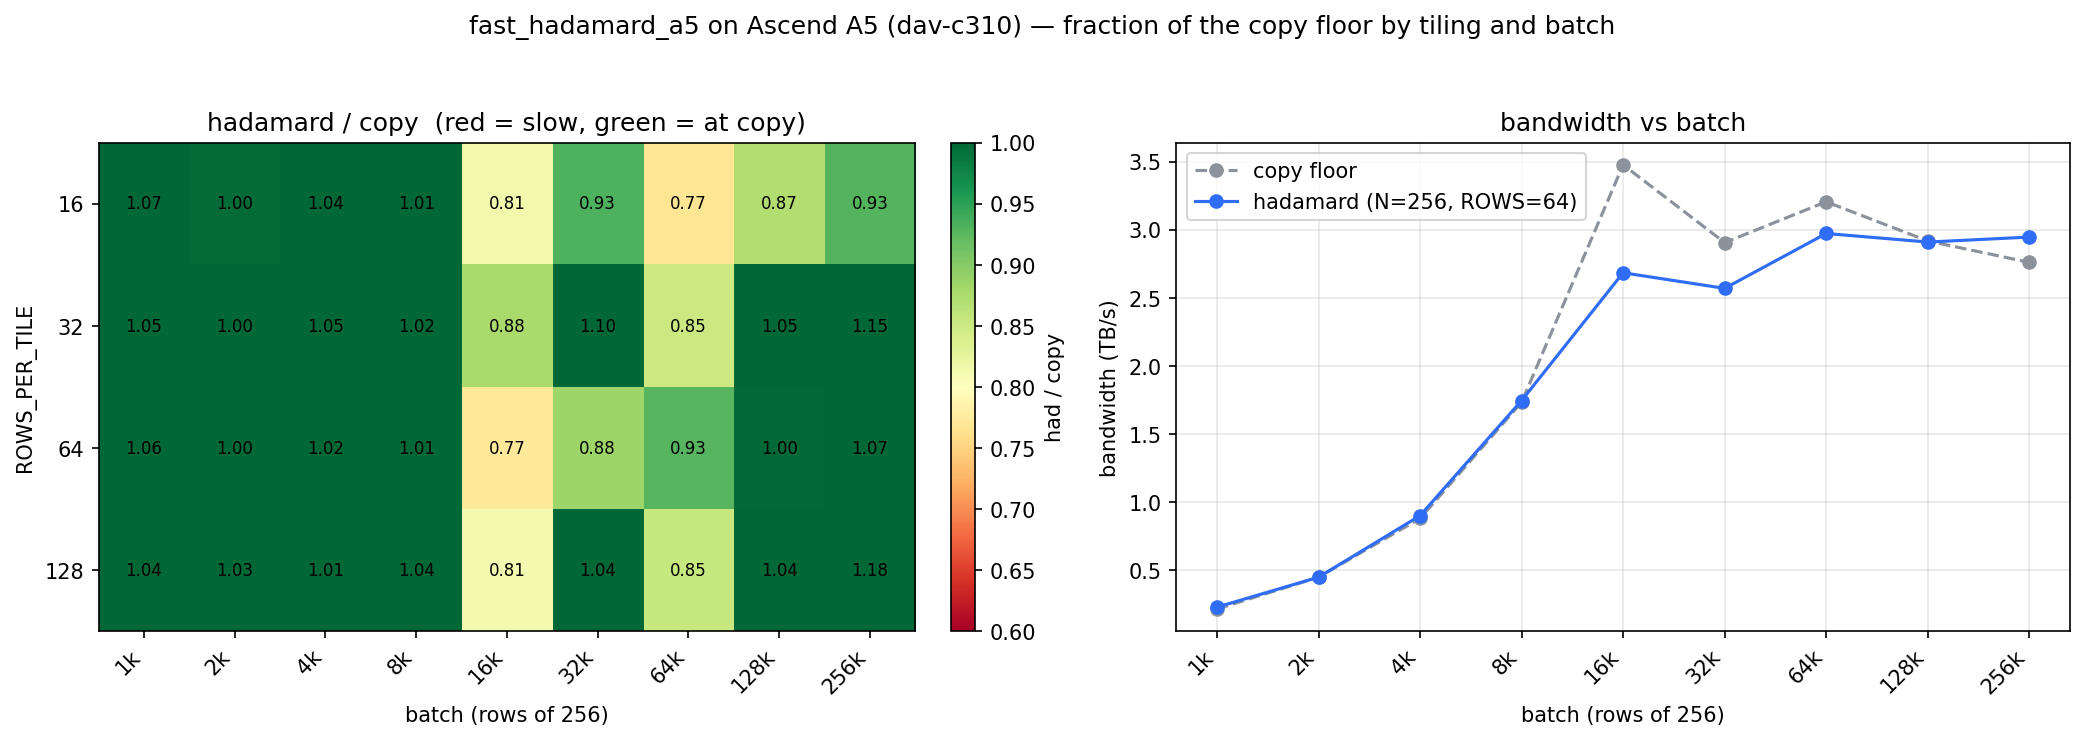
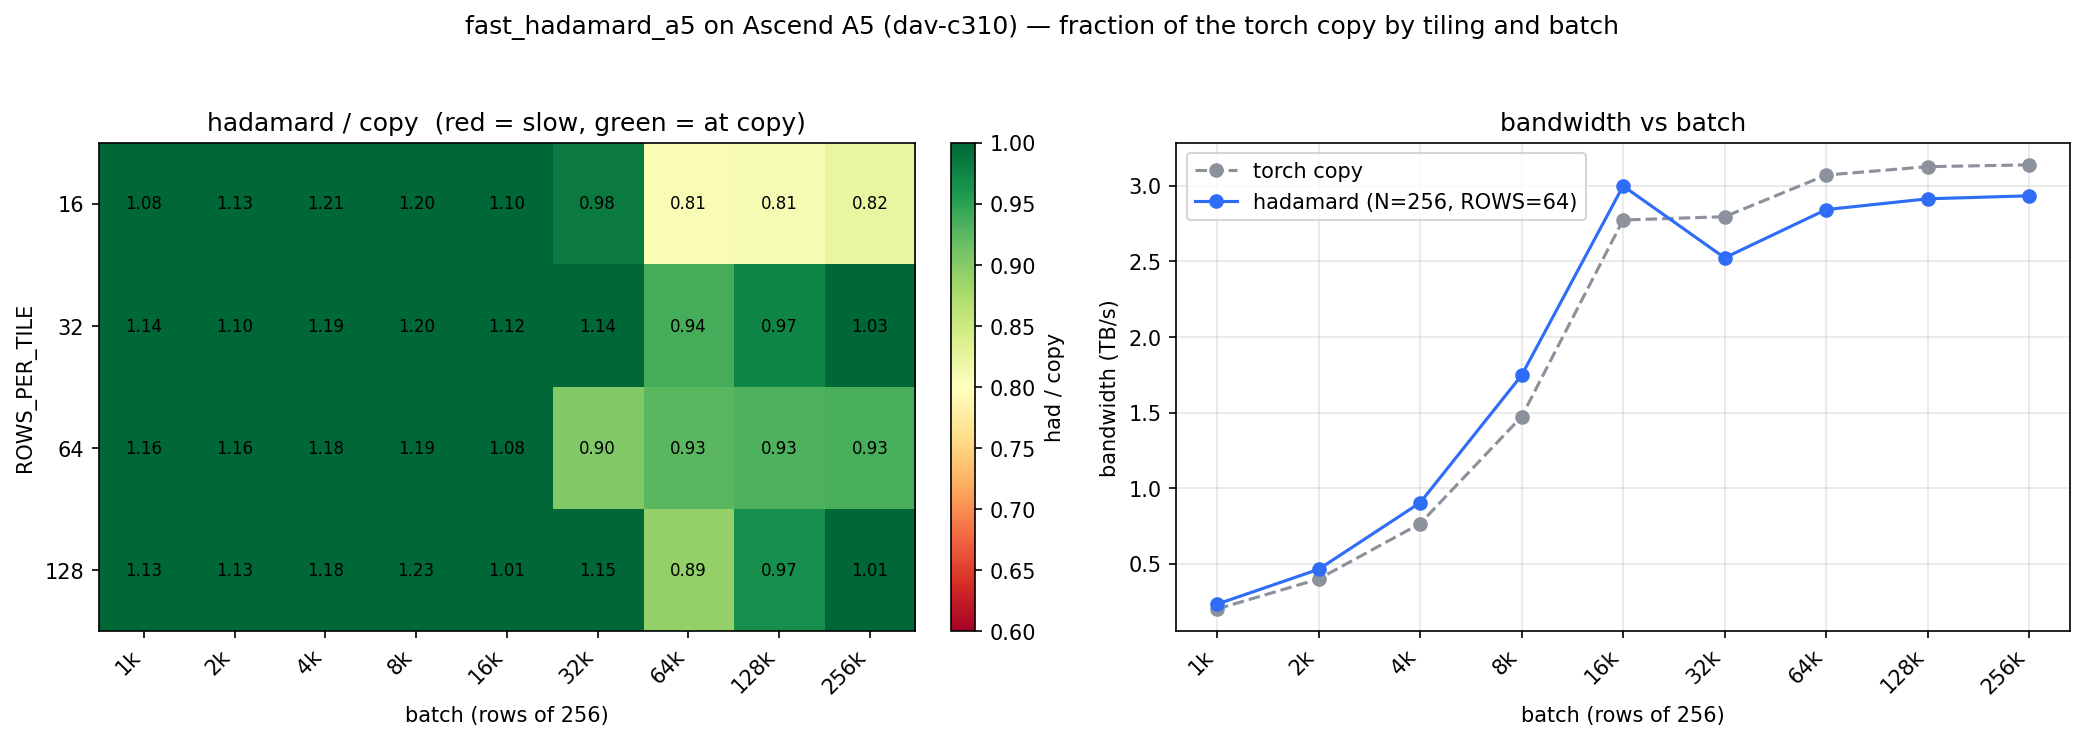
fast_hadamard_a5: regenerate against the torch copy reference
The upstream benchmark now measures against a torch device-to-device copy instead of
a hand-written GM->UB->GM kernel. That reference read 2764..3660 GB/s across batches
(33% spread) because its working set sat inside cache at mid batches; torch reads
3066..3076 across every N, a 0.3% spread.

Ratios are consequently monotone in N -- 0.89/0.89/0.88/0.87/0.86/0.85/0.83 -- which
is what the vector-op cost per element predicts and what the old reference masked.
Legends and axis labels say torch copy rather than copy floor, since it is a
reference measurement and not a derived ceiling.

diff --git a/fast_hadamard_a5/plot_hadamard_grid_a5.py b/fast_hadamard_a5/plot_hadamard_grid_a5.py
@@ -4,9 +4,9 @@
 Reads the CSV emitted by benchmark.py (columns rows,nbuf,batch,had_gbs,
 copy_gbs,ratio) and renders two panels into a single PNG:
 
-  * a heatmap of hadamard / copy (red = slow, green = at the copy floor), with
+  * a heatmap of hadamard / copy (red = slow, green = at the torch copy), with
     the ratio printed in each cell, and
-  * a bandwidth-vs-batch line comparing the transform against the copy floor.
+  * a bandwidth-vs-batch line comparing the transform against the torch copy.
 """
 import argparse
 import csv
@@ -107,7 +107,7 @@ def _draw_bandwidth_line(axis, batches_sorted, had, copy_floor):
     x = list(range(len(batches_sorted)))
     had_tbs = [had_row.get(b, float("nan")) / 1000.0 for b in batches_sorted]
     copy_tbs = [copy_floor.get(b, float("nan")) / 1000.0 for b in batches_sorted]
-    axis.plot(x, copy_tbs, "--", marker="o", color="#8b929b", label="copy floor")
+    axis.plot(x, copy_tbs, "--", marker="o", color="#8b929b", label="torch copy")
     axis.plot(
         x,
         had_tbs,
@@ -143,7 +143,7 @@ def main():
     _draw_heatmap(heatmap_axis, rows_sorted, batches_sorted, ratio)
     _draw_bandwidth_line(line_axis, batches_sorted, had, copy_floor)
     fig.suptitle(
-        "fast_hadamard_a5 on Ascend A5 (dav-c310) — fraction of the copy floor "
+        "fast_hadamard_a5 on Ascend A5 (dav-c310) — fraction of the torch copy "
         "by tiling and batch"
     )
     fig.tight_layout(rect=(0, 0, 1, 0.95))

diff --git a/fast_hadamard_a5/plot_hadamard_nsweep_a5.py b/fast_hadamard_a5/plot_hadamard_nsweep_a5.py
@@ -4,7 +4,7 @@
 Reads the CSV emitted by ``benchmark.py --nsweep`` (columns n,chunks,rows,batch,
 rel_err,had_gbs,copy_gbs,ratio) and renders two panels:
 
-  * achieved bandwidth vs N against the measured copy floor, and
+  * achieved bandwidth vs N against the measured torch copy, and
   * the fraction of that floor reached, and
   * the vector-op cost per element, which explains why the ratio is now flat:
     packing keeps all 128 lanes busy at every N, so cost no longer blows up
@@ -100,7 +100,7 @@ def _draw_bandwidth(axis, rows):
         color=FLOOR_COLOR,
         linewidth=2,
         markersize=8,
-        label="copy floor (DMA ceiling)",
+        label="torch copy (reference)",
     )
     axis.plot(
         x,
@@ -152,7 +152,7 @@ def _draw_ratio(axis, rows):
     axis.set_xticks(x)
     axis.set_xticklabels([str(v) for v in x])
     axis.set_xlabel("block size N")
-    axis.set_ylabel("fraction of copy floor")
+    axis.set_ylabel("fraction of torch copy")
     axis.set_ylim(0, 1.15)
     axis.set_title("Fraction of the DMA ceiling")
     axis.grid(True, alpha=0.25)
@@ -225,7 +225,7 @@ def main():
     _draw_ratio(mid, rows)
     _draw_ops(right, rows)
     fig.suptitle(
-        "fast_hadamard_a5 on Ascend A5 (dav-c310): block size N vs the copy floor"
+        "fast_hadamard_a5 on Ascend A5 (dav-c310): block size N vs the torch copy"
     )
     fig.tight_layout(rect=(0, 0, 1, 0.95))
     output_path = args.csv.parent / args.plot_name
